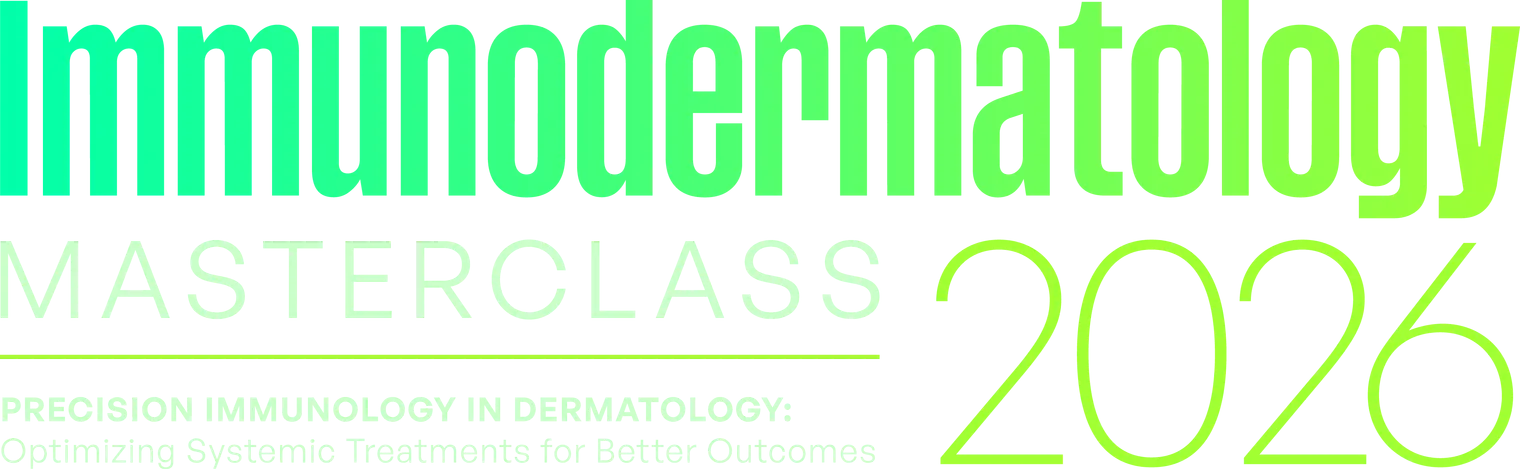
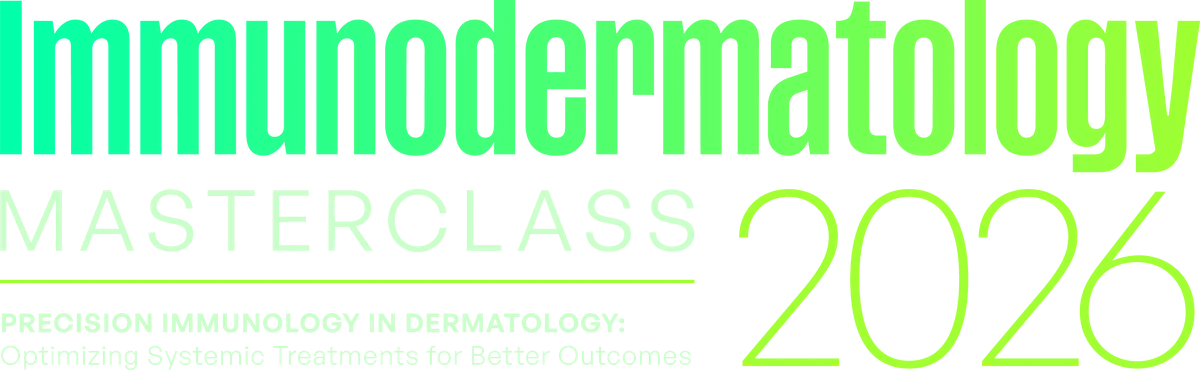
Use official Drive masterclass wordmark in top header
Replace the header logo with the white Immunodermatology Masterclass
2026 mark from Drive, refresh color variants, and slightly enlarge
header logo sizing so the wordmark stays readable.

Changed region(s): [[0.6167, 0.9811, 0.7092, 1.0], [0.8325, 0.9811, 0.8942, 1.0], [0.9867, 0.0297, 1.0, 0.0595]]

diff --git a/src/index.css b/src/index.css
@@ -259,13 +259,13 @@ button {
   display: flex;
   align-items: center;
   flex-shrink: 0;
-  max-width: min(42vw, 260px);
+  max-width: min(48vw, 320px);
 }
 
 .site-header__logo {
   width: 100%;
   height: auto;
-  max-height: 40px;
+  max-height: 48px;
   object-fit: contain;
   object-position: left center;
 }
@@ -2017,11 +2017,11 @@ button {
   }
 
   .site-header__brand {
-    max-width: min(38vw, 150px);
+    max-width: min(42vw, 180px);
   }
 
   .site-header__logo {
-    max-height: 28px;
+    max-height: 34px;
   }
 
   .site-header__nav {
